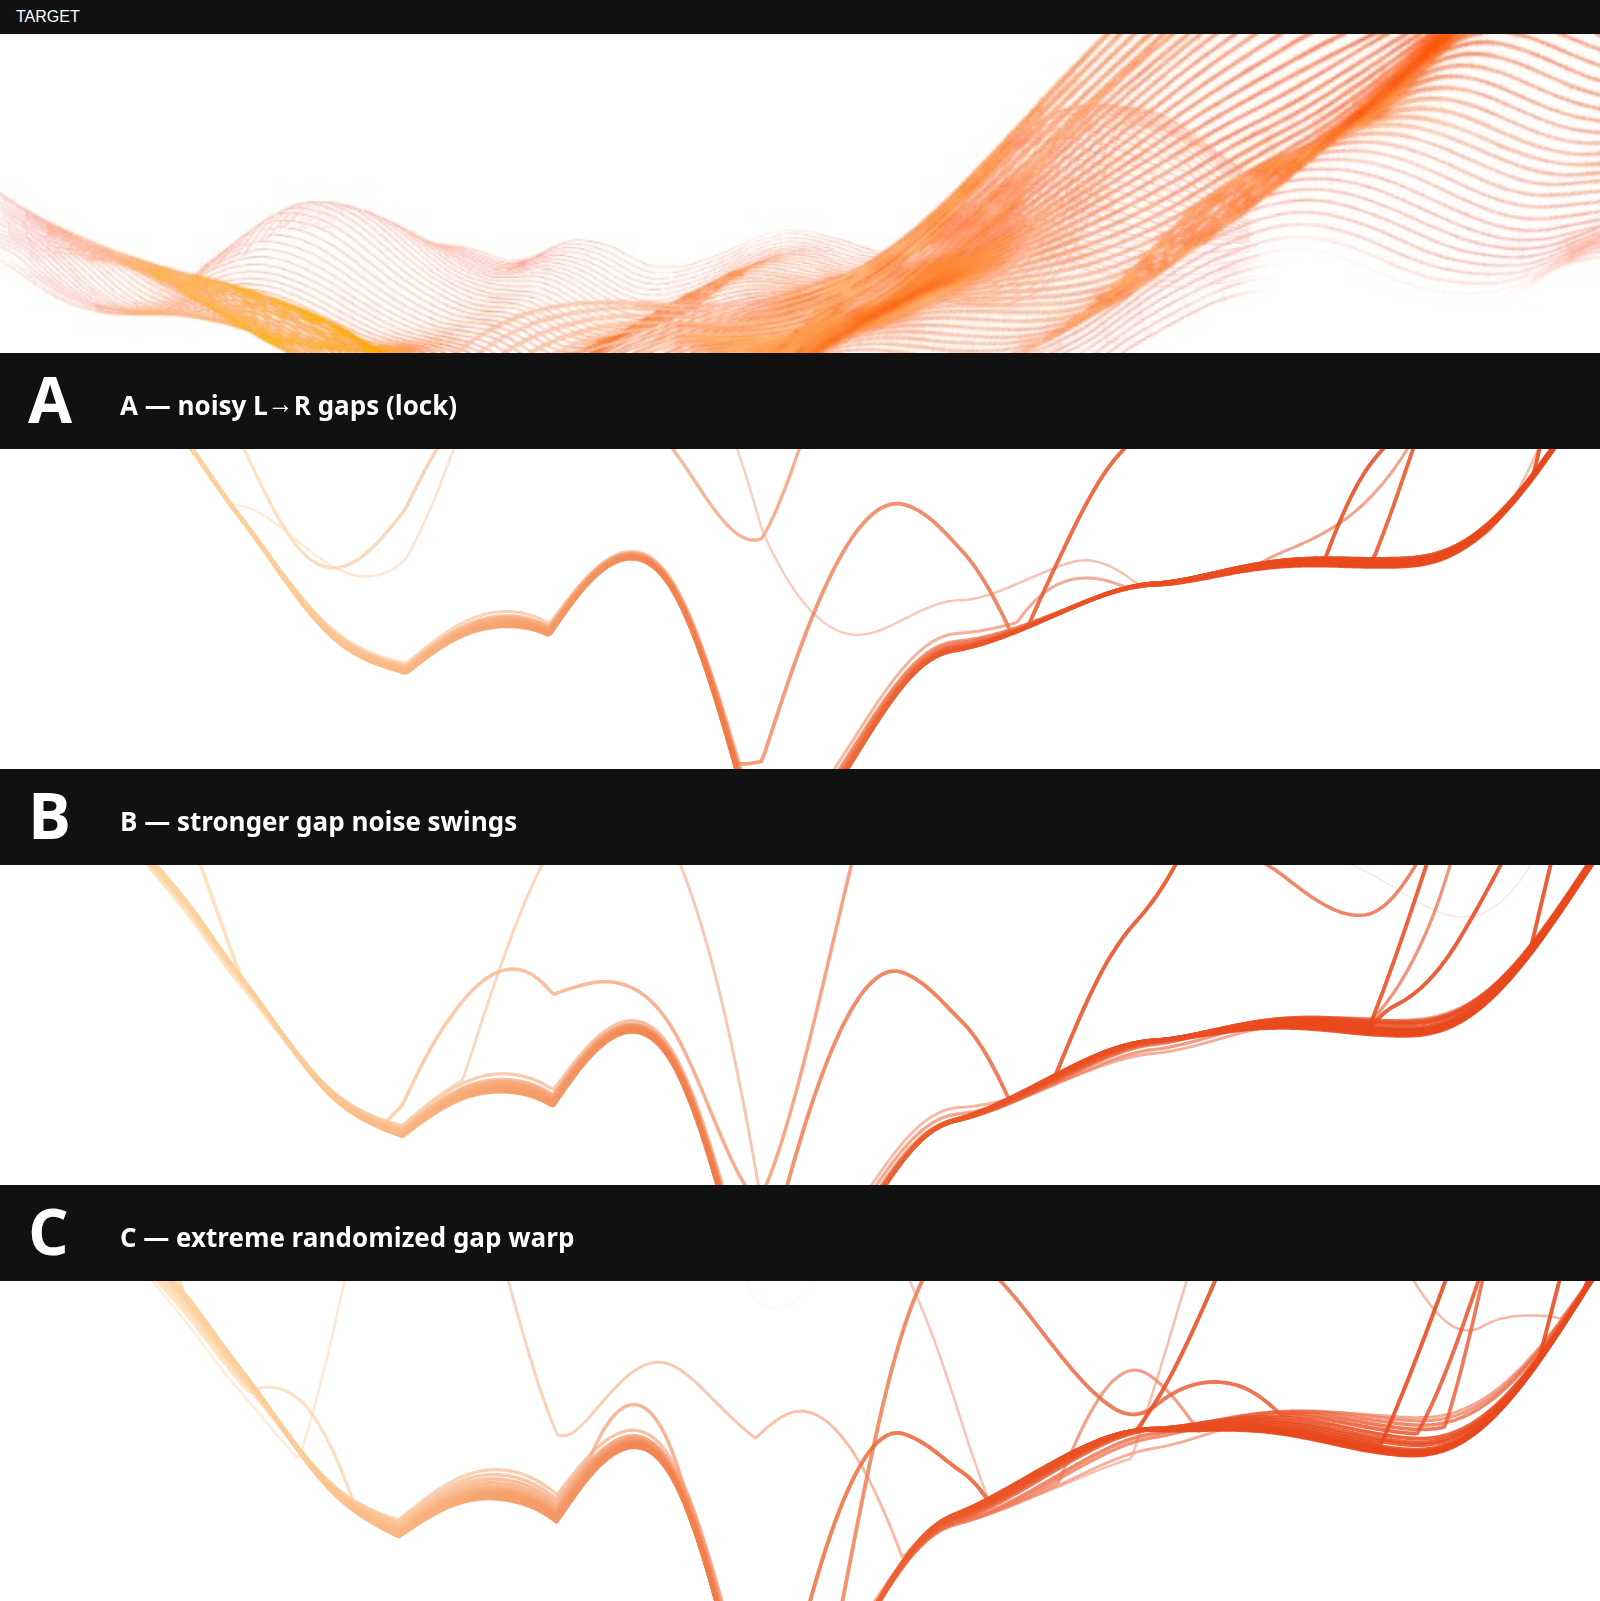
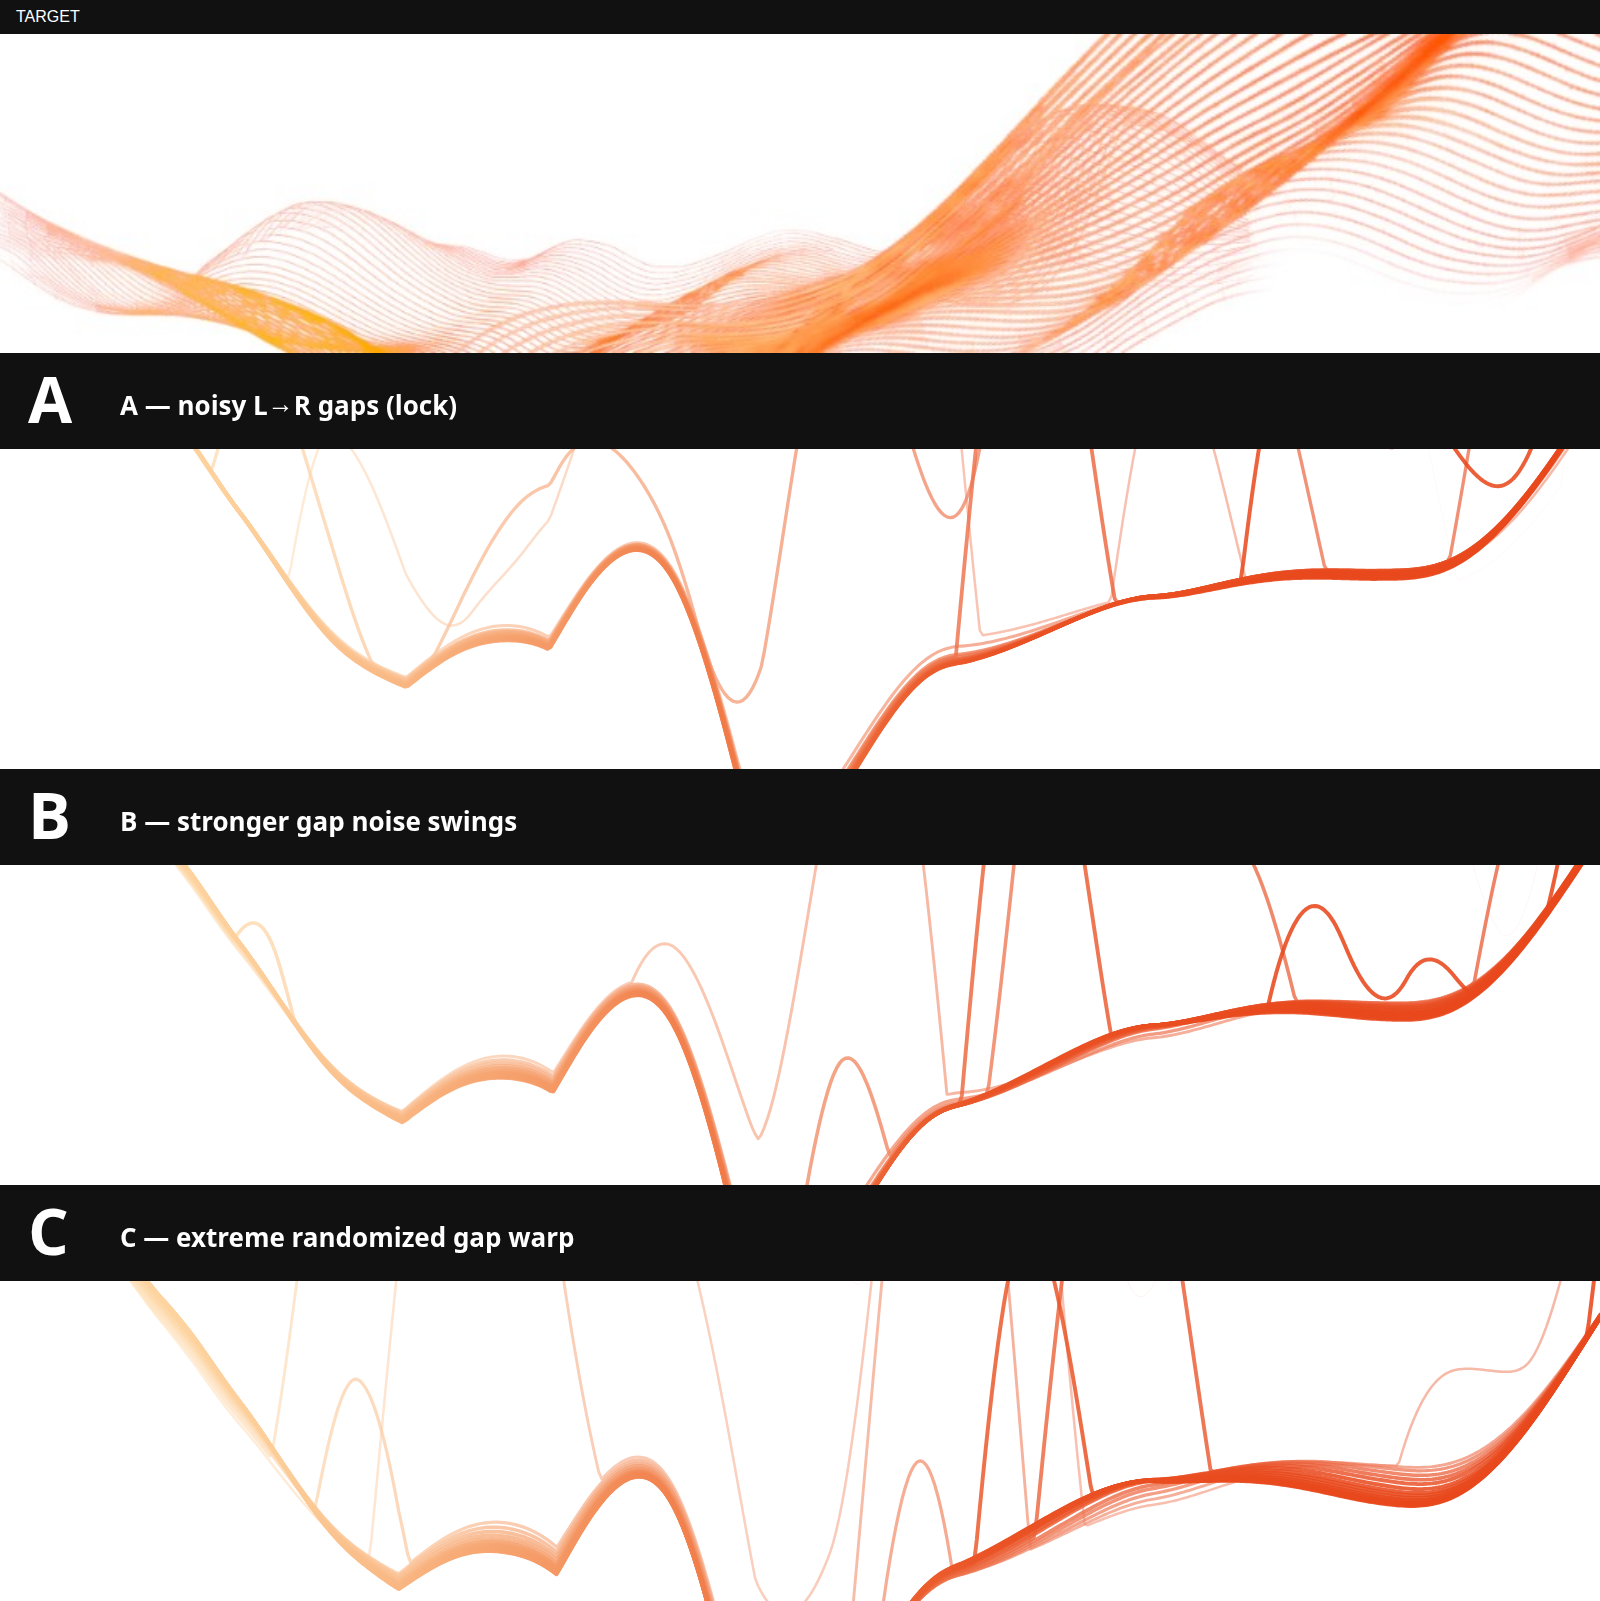
fix(lab): amplify along-X Twizzler gap noise variation (#CF-16)

diff --git a/apps/lab/src/twizzler.ts b/apps/lab/src/twizzler.ts
@@ -498,16 +498,18 @@ export function twizzlerGapWarpedAcross(
   const amount = Math.max(0, Math.min(2.5, gapNoise));
   // Pack fan scale along the ribbon — large L→R swings.
   const pack =
-    0.25 +
-    1.7 * twizzlerNoise(x * 2.15 + seed * 0.2, seed * 0.71, 0.33) +
-    0.85 * twizzlerNoise(x * 4.8 + 1.3, seed * 1.4, 0.88) +
-    0.4 * twizzlerNoise(x * 9.2 + 0.6, seed * 0.5, 1.6);
+    0.12 +
+    2.2 * twizzlerNoise(x * 1.7 + seed * 0.2, seed * 0.71, 0.33) +
+    1.15 * twizzlerNoise(x * 3.9 + 1.3, seed * 1.4, 0.88) +
+    0.7 * twizzlerNoise(x * 8.4 + 0.6, seed * 0.5, 1.6) +
+    0.45 * twizzlerNoise(x * 14.2 + 2.1, seed * 0.9, 2.2);
   // Neighbor gap jitter — each fiber drifts differently along X.
   const jitter =
-    (twizzlerNoise(x * 3.4 + fiberIndex * 0.67, fiberIndex * 1.19 + seed, 1.35) - 0.5) * (0.7 + amount) +
-    (twizzlerNoise(x * 7.6 + fiberIndex * 0.31, seed + 2.4, 0.55) - 0.5) * (0.35 + amount * 0.45);
-  const warped = across * (0.45 + amount * 0.55) * pack + jitter * amount * 0.85;
-  return Math.max(-1.5, Math.min(1.5, warped));
+    (twizzlerNoise(x * 2.8 + fiberIndex * 0.67, fiberIndex * 1.19 + seed, 1.35) - 0.5) * (1.1 + amount * 1.2) +
+    (twizzlerNoise(x * 6.4 + fiberIndex * 0.31, seed + 2.4, 0.55) - 0.5) * (0.55 + amount * 0.7) +
+    (twizzlerNoise(x * 11.5 + fiberIndex * 0.19, seed + 5.1, 1.1) - 0.5) * (0.35 + amount * 0.4);
+  const warped = across * (0.35 + amount * 0.75) * pack + jitter * amount;
+  return Math.max(-1.7, Math.min(1.7, warped));
 }
 
 /**
@@ -627,7 +629,7 @@ export function buildTwizzlerLines(
 
   // Gap irregularity + Z-wave amplitude ride on existing wrinkle/depthLift knobs.
   const gapNoise = 0.65 + settings.wrinkleStrength * 24;
-  const alongGapNoise = 0.85 + settings.wrinkleStrength * 28 + settings.depthSpread * 0.2;
+  const alongGapNoise = 1.15 + settings.wrinkleStrength * 32 + settings.depthSpread * 0.35;
   const terrainBoost = settings.depthTerrain === 1 ? 1.35 : settings.depthTerrain === 2 ? 1.55 : 1;
   const waveAmp = (1.0 + settings.depthLift * 1.4) * terrainBoost;
   const rawSlots = twizzlerUnevenAcross(
